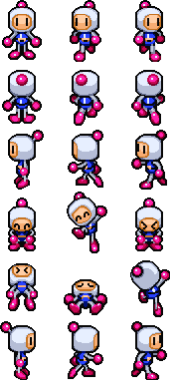
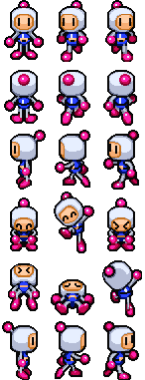
update animation player

diff --git a/public/js/game-player.js b/public/js/game-player.js
@@ -11,7 +11,7 @@ let player = {
     rightPressed: false,
     bottomPressed: false,
     leftPressed: false,
-    animationX: [57, 114],
+    animationX: [48, 96],
     animationXIndex: 0,
     animationY: 0,
     spacePressed: false,
@@ -146,7 +146,7 @@ function drawPlayer()
                 players[playerIndex].moving = true;
                 players[playerIndex].playerMovingTempo = setInterval(function()
                 {
-                    players[playerIndex].animationY = 316;
+                    players[playerIndex].animationY = 320;
 
                     players[playerIndex].posX += playerMovingSpeed;
                     if (players[playerIndex].posX % tileSize === 0)
@@ -195,7 +195,7 @@ function drawPlayer()
         }
         console.log(players[playerIndex].animationXIndex);
 
-        ctx.drawImage(playerImg, players[playerIndex].animationX[players[playerIndex].animationXIndex], players[playerIndex].animationY, 51, 64, players[playerIndex].posX, players[playerIndex].posY, tileSize, tileSize);
+        ctx.drawImage(playerImg, players[playerIndex].animationX[players[playerIndex].animationXIndex], players[playerIndex].animationY, 48, 64, players[playerIndex].posX, players[playerIndex].posY - (tileSize * 0.3), tileSize, tileSize * 1.3 );
 
         /*
         ctx.beginPath();
@@ -213,13 +213,15 @@ function drawOtherPlayers()
     {
         if (i != playerIndex && players[i].alive == 1)
         {
+            ctx.drawImage(playerImg, players[i].animationX[players[i].animationXIndex], players[i].animationY, 48, 64, players[i].posX, (players[i].posY) - (tileSize * 0.3), tileSize, tileSize * 1.3 );
+            /*
             ctx.beginPath();
             ctx.rect(players[i].posX, players[i].posY, tileSize, tileSize);
             ctx.fillStyle = players[i].color;
             ctx.strokeStyle = 'rgb(0, 0, 0)';
             ctx.fill();
             ctx.stroke();
-            ctx.closePath();
+            ctx.closePath();*/
         }
     }
 }

diff --git a/public/js/game-online.js b/public/js/game-online.js
@@ -10,6 +10,10 @@ socket.on('updateOtherPlayerPos', function(otherPlayerInfos)
 {
 	players[otherPlayerInfos.order].posX = otherPlayerInfos.playerInfos.posX;
 	players[otherPlayerInfos.order].posY = otherPlayerInfos.playerInfos.posY;
+	players[otherPlayerInfos.order].animationX = otherPlayerInfos.playerInfos.animationX;
+	players[otherPlayerInfos.order].animationXIndex = otherPlayerInfos.playerInfos.animationXIndex;
+	players[otherPlayerInfos.order].animationY = otherPlayerInfos.playerInfos.animationY;
+
 });
 
 socket.on('updateBombFromOtherPl', function(bombInfos)
@@ -108,8 +112,9 @@ let initGame = function()
 	}
 	loadUI();
 	engine();
-	// 25 images/sec pour le déplacement des autres joueurs.
-	setInterval(sharePlayerInfos, 40);
+	// 40 pour 25 images/sec pour le déplacement des autres joueurs.
+	// 
+	setInterval(sharePlayerInfos, 16);
 }
 
 socket.on('initGame', function()
